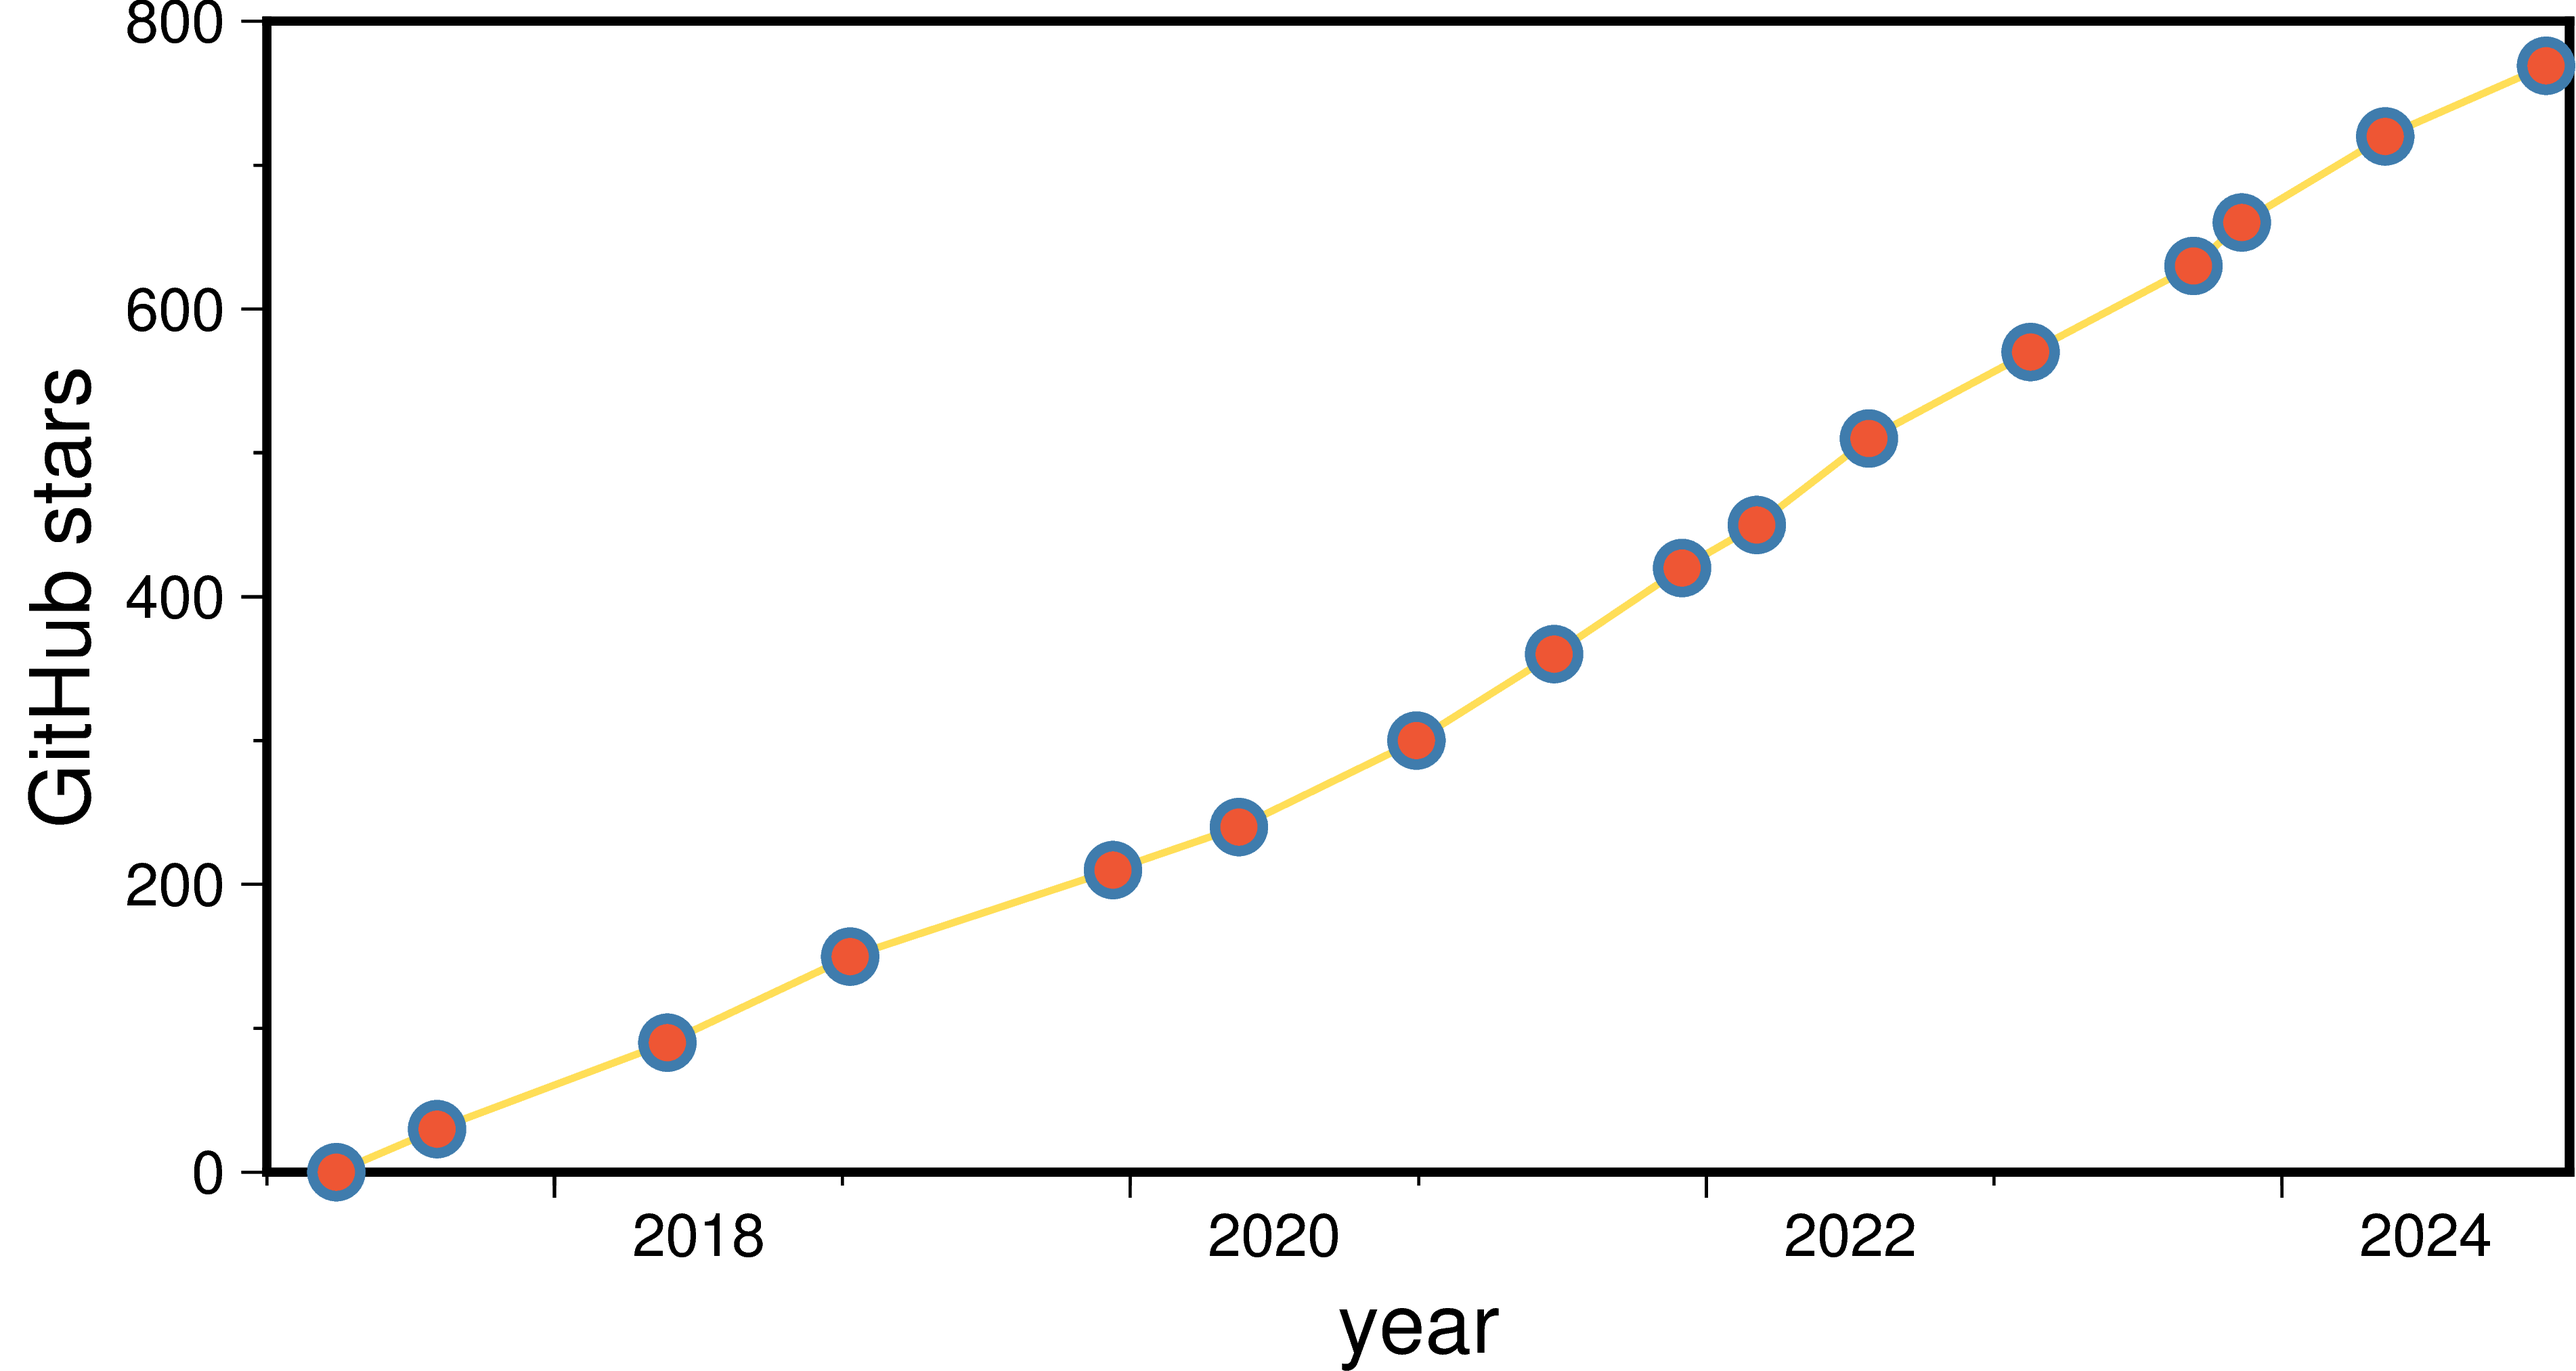
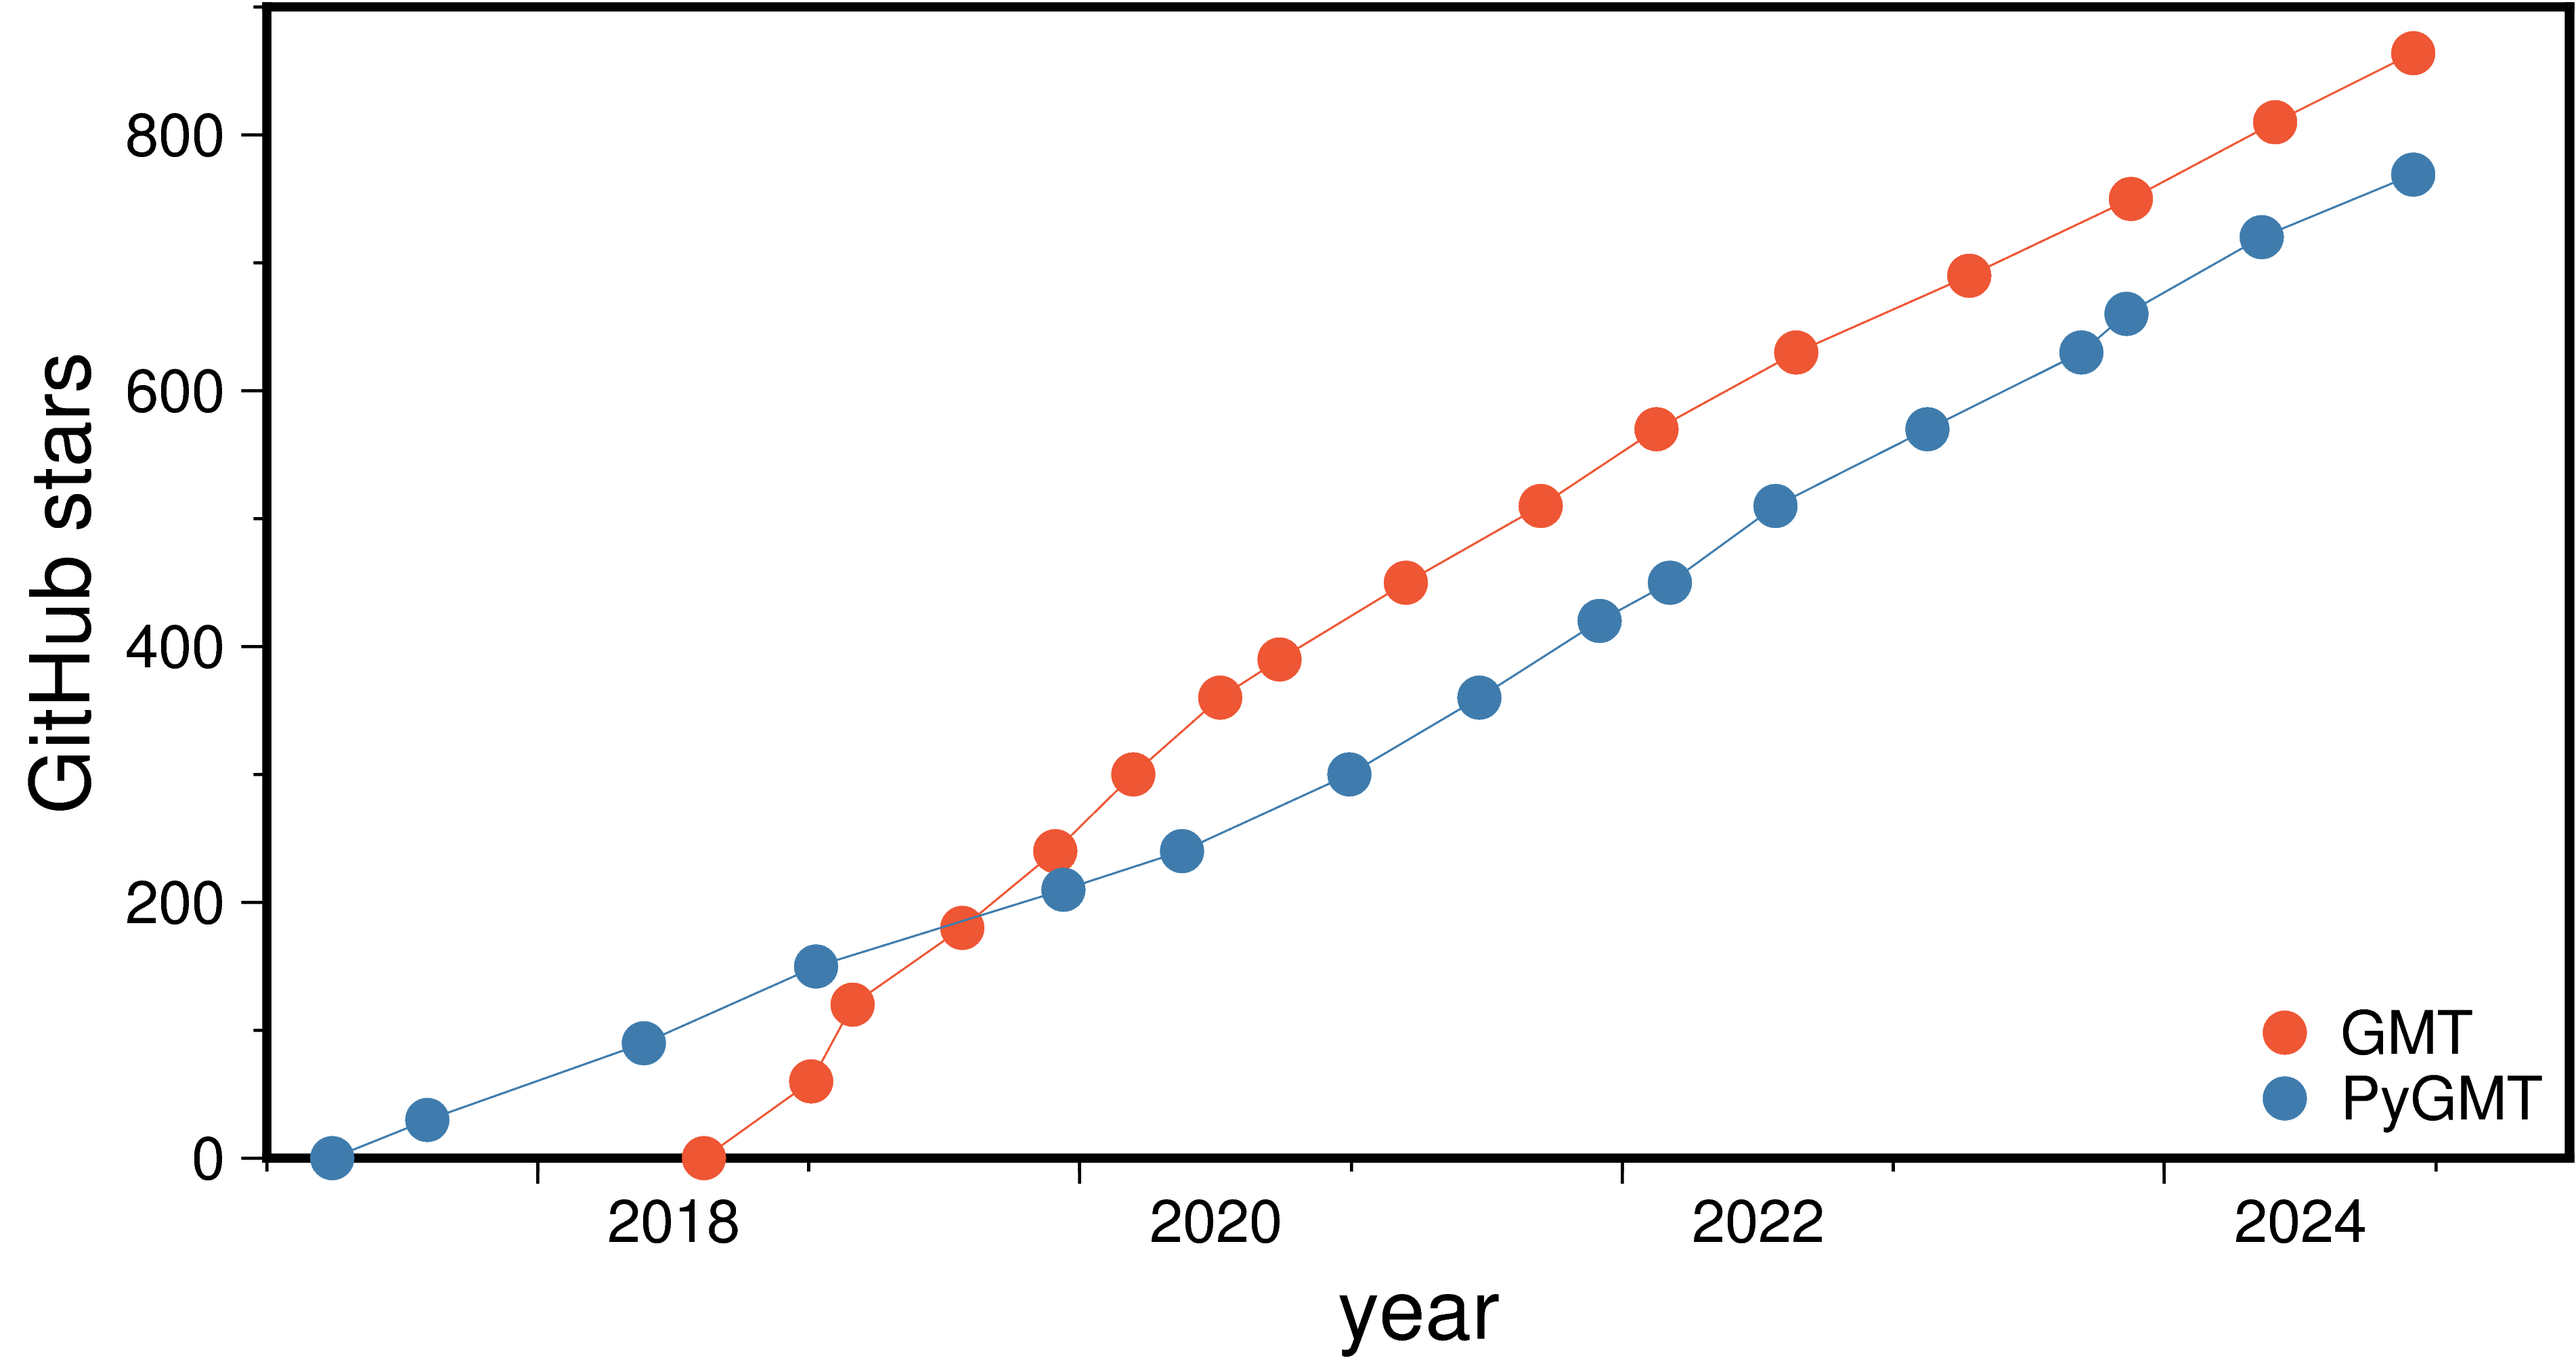
Add data and code for GMT

diff --git a/011_agu_FTLJG_2024/FTLJG_agu24_u12b05_pygmt_numpy.py b/011_agu_FTLJG_2024/FTLJG_agu24_u12b05_pygmt_numpy.py
@@ -29,23 +29,39 @@ import datetime
 import numpy as np
 
 # Data retrieved from https://star-history.com/#GenericMappingTools/pygmt&Date 2024/12/01
-x = np.array(
+dates_pygmt = np.array(
     ["2017-03-30", "2017-08-05", "2018-05-24", "2019-01-11", "2019-12-10", "2020-05-18",
      "2020-12-29", "2021-06-22", "2021-12-01", "2022-03-06", "2022-07-26", "2023-02-16",
      "2023-09-11", "2023-11-11", "2024-05-11", "2024-12-01"], dtype=np.datetime64
 )
-y = np.array([0, 30, 90, 150, 210, 240, 300, 360, 420, 450, 510, 570, 630, 660, 720, 769])
+stars_pygmt = np.array([
+    0, 30, 90, 150, 210, 240, 300, 360, 420, 450, 510, 570, 630, 660, 720, 769]
+)
+
+dates_gmt = np.array(
+    ["2018-08-13", "2019-01-04", "2019-03-01", "2019-07-27", "2019-11-29", "2020-03-13",
+     "2020-07-08", "2020-09-26", "2021-03-15", "2021-09-13", "2022-02-16", "2022-08-23",
+     "2023-04-13", "2023-11-17", "2024-05-29", "2024-12-01"], dtype=np.datetime64
+)
+stars_gmt = np.array([
+    0, 60, 120, 180, 240, 300, 360, 390, 450, 510, 570, 630, 690, 750, 810, 864]
+)
+
 
 fig = pygmt.Figure()
 fig.basemap(
     projection="X12c/6c",
-    region=[datetime.date(2017, 1, 1), datetime.date(2024, 12, 31), 0, 800],
+    region=[datetime.date(2017, 1, 1), datetime.date(2025, 6, 30), 0, 900],
     frame=["x+lyear", "y+lGitHub stars"],
 )
 
-fig.plot(x=x, y=y, pen="1p,255/222/87", no_clip=True)
-fig.plot(x=x, y=y, style="c0.25c", fill="238/86/52", pen="1.5p,63/124/173", no_clip=True)
+fig.plot(x=dates_gmt, y=stars_gmt, pen="238/86/52", no_clip=True)
+fig.plot(x=dates_gmt, y=stars_gmt, style="c0.23c", fill="238/86/52", no_clip=True, label="GMT")
 
+fig.plot(x=dates_pygmt, y=stars_pygmt, pen="63/124/173", no_clip=True)
+fig.plot(x=dates_pygmt, y=stars_pygmt, style="c0.23c", fill="63/124/173", no_clip=True, label="PyGMT")
+
+fig.legend(position="jBR")
 fig.show()
 
 
